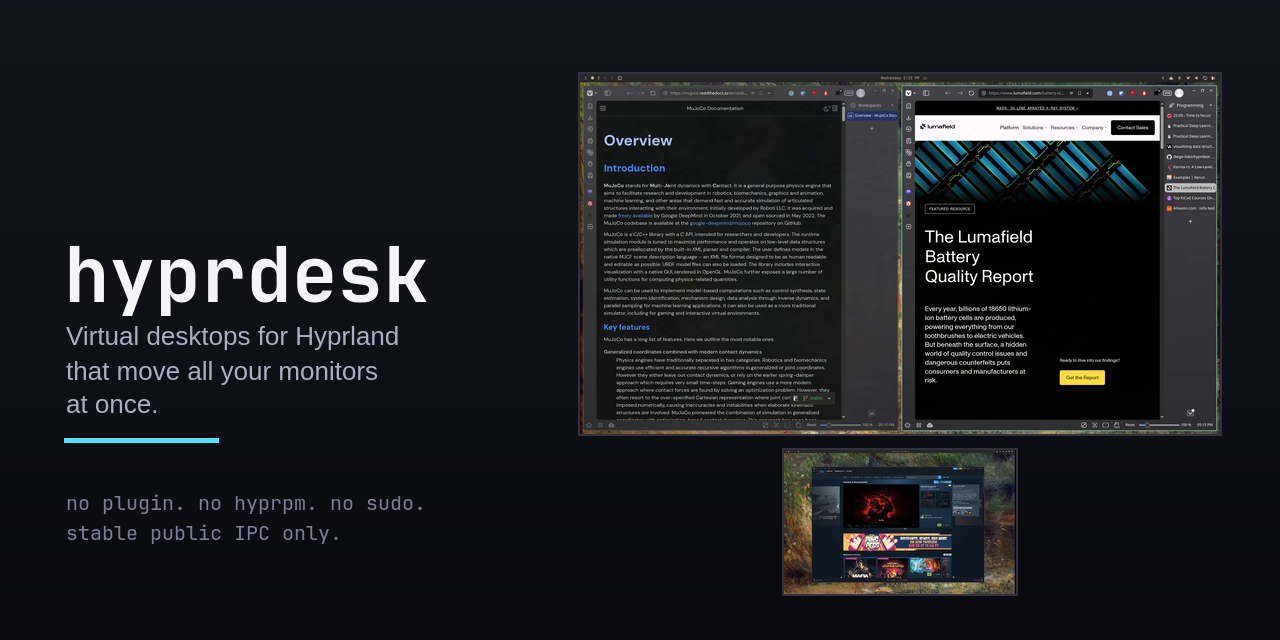
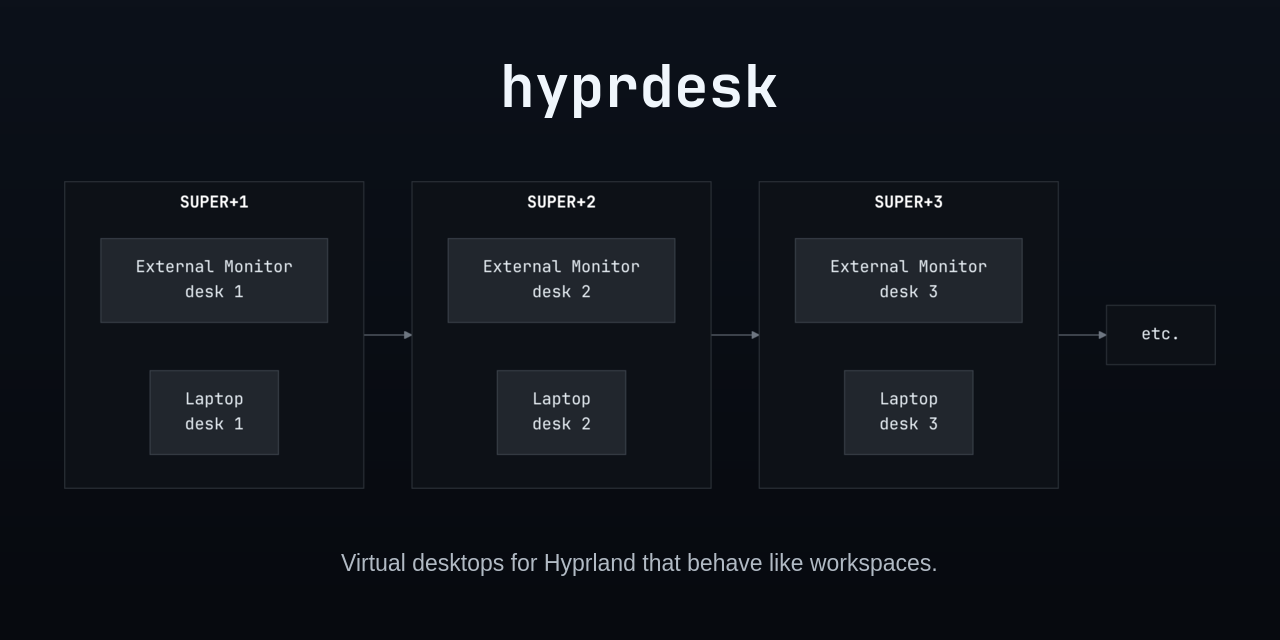
Rebuild the social preview card
The card carries the README's desks diagram verbatim, so the two cannot
drift, drawn straight on the page with no container panel: at 1280x640
the panel read as a slab with three boxes stranded on it. The wordmark
and tagline are centered on the same axis, and `etc.` takes the
desk-group fill rather than the monitor-box one, since it stands for the
desks that continue past the third rather than a monitor inside one.

diff --git a/assets/README.md b/assets/README.md
@@ -1,9 +1,9 @@
 # Assets
 
-`demo.gif` and `social-preview.png` are real captures of a live
-two-monitor session. This file records how each one was made, so any of
-them can be regenerated after a UI change without rediscovering the
-mechanics.
+`demo.gif` is a real capture of a live two-monitor session;
+`social-preview.png` is drawn from the same diagram the main README uses.
+This file records how each one was made, so any of them can be regenerated
+after a UI change without rediscovering the mechanics.
 
 No video editor is needed for any of this. Everything below is one
 recorder process and one `ffmpeg` command.
@@ -194,47 +194,161 @@ nothing by itself. GitHub only uses it once it is uploaded under Settings,
 then General, then Social preview, and it has to be re-uploaded after any
 change.
 
-It is **1280x640**, the size GitHub documents. The two monitors are
-composited separately rather than dropped in as one stacked frame, because
-the stacked frame carries black bands either side of the laptop that read
-as dead space once scaled down to a card:
+It is **1280x640**, the size GitHub documents. The card carries the same
+desks diagram as the main README rather than screenshots, so the two stay
+in step: when the README diagram changes, paste the new source into step 1
+and rebuild.
+
+### The palette
+
+Every colour on the card is a [GitHub Primer
+dark](https://primer.style/foundations/color/overview) token, the same
+design system github.com itself is painted with. That is not decoration:
+the card is displayed inside GitHub's own chrome and in link unfurls that
+imitate it, so borrowing GitHub's neutrals makes it sit in the page
+instead of fighting it. The practical effect is that every grey is drawn
+from one cool ramp, with no second hue mixed in anywhere.
+
+| Role | Token | Hex |
+|------|-------|-----|
+| Page | `canvas.inset` | `#0c111a` to `#070a0f` |
+| Desk group | `canvas.default` | `#0d1117`, border `#30363d` |
+| Monitor box | `canvas.overlay` | `#21262d`, border `#3d444d` |
+| Wordmark | `fg.default` | `#f0f6fc` |
+| `SUPER+N` | white | `#ffffff` |
+| Tagline | `fg.muted` | `#b1bac4` |
+| Arrows | `neutral.emphasis` | `#6e7681` |
+
+The diagram sits **directly on the page**, with no container panel behind
+it. A panel was tried and removed: at this size it read as a slab with
+three boxes stranded on it, and the extra edge competed with the desk
+group borders instead of supporting them. The three surfaces stack in
+value order on their own - page, desk group barely raised off it, monitor
+box raised again - and the group borders do the separating.
+
+Step 1 renders the diagram on a transparent background in that palette.
+`themeVariables` covers the boxes and arrows; the cluster labels need the
+CSS override, because their colour is not exposed as a theme variable.
+`subGraphTitleMargin` is what keeps `SUPER+N` off the top edge of its box.
+
+The trailing `style etc.` line is there because `etc.` is a plain node,
+so it would otherwise take `primaryColor` and render in the monitor box
+colour. It stands for the desks that continue past the third, not for a
+monitor inside one, so it is painted as a desk group instead. This is the
+only line the card's copy of the diagram adds to the README's - the graph
+itself is identical, and must stay that way.
 
 ```bash
-ffmpeg -v error -ss 8 -i /tmp/hyprdesk-demo.mp4 -frames:v 1 /tmp/frame.png
+cat > /tmp/card.mmd <<'MMD'
+%%{init: {'theme':'base','themeVariables':{
+'fontFamily':'JetBrains Mono, DejaVu Sans Mono, monospace',
+'fontSize':'17px',
+'primaryColor':'#21262d',
+'primaryTextColor':'#e6edf3',
+'primaryBorderColor':'#3d444d',
+'lineColor':'#6e7681',
+'clusterBkg':'#0d1117',
+'clusterBorder':'#30363d'
+},'flowchart':{'subGraphTitleMargin':{'top':10,'bottom':14},'padding':18}}}%%
+flowchart LR
+    subgraph s1["SUPER+1"]
+        direction LR
+        s1a["External Monitor<br/>desk 1"]
+        s1b["Laptop<br/>desk 1"]
+    end
+    subgraph s2["SUPER+2"]
+        direction LR
+        s2a["External Monitor<br/>desk 2"]
+        s2b["Laptop<br/>desk 2"]
+    end
+    subgraph s3["SUPER+3"]
+        direction LR
+        s3a["External Monitor<br/>desk 3"]
+        s3b["Laptop<br/>desk 3"]
+    end
+    s1 --> s2 --> s3 --> etc.
+    style etc. fill:#0d1117,stroke:#30363d
+MMD
 
-# Geometry from monitor-layout.sh stacked: external 2560x1440+0+0,
-# laptop 930x578+814+1440.
-magick /tmp/frame.png -crop 2560x1440+0+0 +repage -resize 640x \
-  -bordercolor '#31313f' -border 2 /tmp/ext.png
-magick /tmp/frame.png -crop 930x578+814+1440 +repage -resize 232x \
-  -bordercolor '#31313f' -border 2 /tmp/lap.png
+cat > /tmp/card.css <<'CSS'
+.nodeLabel, .nodeLabel p { color: #e6edf3 !important; }
+.cluster-label .nodeLabel, .cluster-label .nodeLabel p,
+.cluster-label p, .cluster .label { color: #ffffff !important; font-weight: 700 !important; }
+CSS
 
-magick -size 1280x640 gradient:'#15151e-#0a0a10' \
-  \( /tmp/ext.png \) -gravity northwest -geometry +578+72 -composite \
-  \( /tmp/lap.png \) -gravity northwest -geometry +782+448 -composite \
+printf '{"args":["--no-sandbox","--disable-gpu"]}\n' > /tmp/puppeteer.json
+
+PUPPETEER_EXECUTABLE_PATH=/usr/bin/chromium \
+  npx @mermaid-js/mermaid-cli -i /tmp/card.mmd -o /tmp/diag.png \
+    -p /tmp/puppeteer.json -C /tmp/card.css -b transparent -s 3
+magick /tmp/diag.png -trim +repage -resize 1152x /tmp/diag-fit.png
+```
+
+The `-trim` matters. Mermaid leaves a few pixels of transparent margin,
+and trimming first is what lets the diagram land on the 64px margin by
+its actual content rather than by its bounding box. 1152 is that margin
+doubled and subtracted from the width, so the diagram spans the full
+column and sets the margin every other element is placed against.
+
+Step 2 composites the card. The layout is three centred blocks stacked
+down the page - wordmark, diagram, tagline - and every gap between and
+around them is the same 64px the diagram already uses left and right.
+
+```bash
+magick -size 1280x640 gradient:'#0c111a-#070a0f' \
+  \( /tmp/diag-fit.png \) -gravity northwest -geometry +64+181 -composite \
+  -gravity north \
   -font /usr/share/fonts/TTF/JetBrainsMonoNerdFont-Bold.ttf \
-  -fill '#f4f4f9' -pointsize 76 -annotate +64+246 'hyprdesk' \
+  -fill '#f0f6fc' -pointsize 58 -annotate +0+64 'hyprdesk' \
+  -gravity north \
   -font /usr/share/fonts/liberation/LiberationSans-Regular.ttf \
-  -fill '#aeaec2' -pointsize 26 \
-  -annotate +66+326 'Virtual desktops for Hyprland' \
-  -annotate +66+361 'that move all your monitors' \
-  -annotate +66+396 'at once.' \
-  -fill '#58e1ff' -draw 'rectangle 64,438 218,442' \
-  -font /usr/share/fonts/TTF/JetBrainsMonoNerdFont-Regular.ttf \
-  -fill '#7e7e96' -pointsize 20 \
-  -annotate +66+494 'no plugin. no hyprpm. no sudo.' \
-  -annotate +66+524 'stable public IPC only.' \
+  -fill '#b1bac4' -pointsize 23 \
+  -annotate +0+553 'Virtual desktops for Hyprland that behave like workspaces.' \
   -strip assets/social-preview.png
 ```
 
-ImageMagick wants font file paths here, not family names; resolve one with
-`fc-match -f '%{file}\n' 'JetBrainsMono Nerd Font:bold'`. The accent colour
-matches the Hyprland badge at the top of the main README.
+Those three y offsets are not free choices, they are what makes the
+margins come out equal. The ink measures 54px for the wordmark, 308 for
+the diagram, 23 for the tagline, which is 385 of the 640 available. The
+remaining 255 splits four ways - top margin, two gaps, bottom margin - so
+each is about 64. Hence `y=64`, then `64+54+63 = 181`, then
+`181+308+64 = 553`, with 64px left under the tagline.
+
+That arithmetic only works because of one non-obvious ImageMagick rule:
+**once `-gravity` is set, the `-annotate +x+y` offset places the top of
+the text, not its baseline.** Reasoning about baselines and descenders
+under gravity produces numbers that are simply wrong. Measure the ink
+instead - render a string alone on transparency with the same gravity and
+offset the card uses, `-trim`, and read the geometry back:
+
+```bash
+magick -size 1280x640 xc:none -gravity north \
+  -font <font> -fill white -pointsize 58 \
+  -annotate +0+64 'hyprdesk' -trim info:
+```
+
+That reports `273x54 ... +504+64`: ink 54px tall starting exactly at the
+requested y, and horizontally centred to within half a pixel. Re-measure
+after any point-size or font change and redo the split above; the three
+ink heights are what the answer is made of.
+
+Three things here are worth not rediscovering:
+
+- **Let mermaid-cli write the PNG.** Rendering to SVG and converting with
+  `magick` yields empty boxes, because mermaid puts every label in a
+  `<foreignObject>` and ImageMagick's SVG renderer drops those entirely.
+- **`-s 3` is what sets the resolution.** `-w` only sizes the browser
+  viewport; the output still comes out at the diagram's natural size, so
+  text ends up soft once scaled to card width.
+- **ImageMagick wants font file paths, not family names.** Resolve one with
+  `fc-match -f '%{file}\n' 'JetBrainsMono Nerd Font:bold'`.
 
 Check the result at around 340px wide before uploading, because that is
-roughly how a feed renders it. Fine detail does not survive: a full-screen
-terminal collapses into a featureless rectangle at that size, while a
-couple of distinct windows with some colour still read as two screens.
+roughly how a feed renders it. The wordmark, the tagline, and the shape
+of the diagram all survive; the labels inside the boxes do not, which is
+the trade for showing the mechanism rather than a screenshot. An earlier
+draft also carried a smaller grey line along the bottom, and dropping it
+is what left the tagline enough room to stay readable at that size.
 
 ## `demo.tape` - the CLI recording script
 
